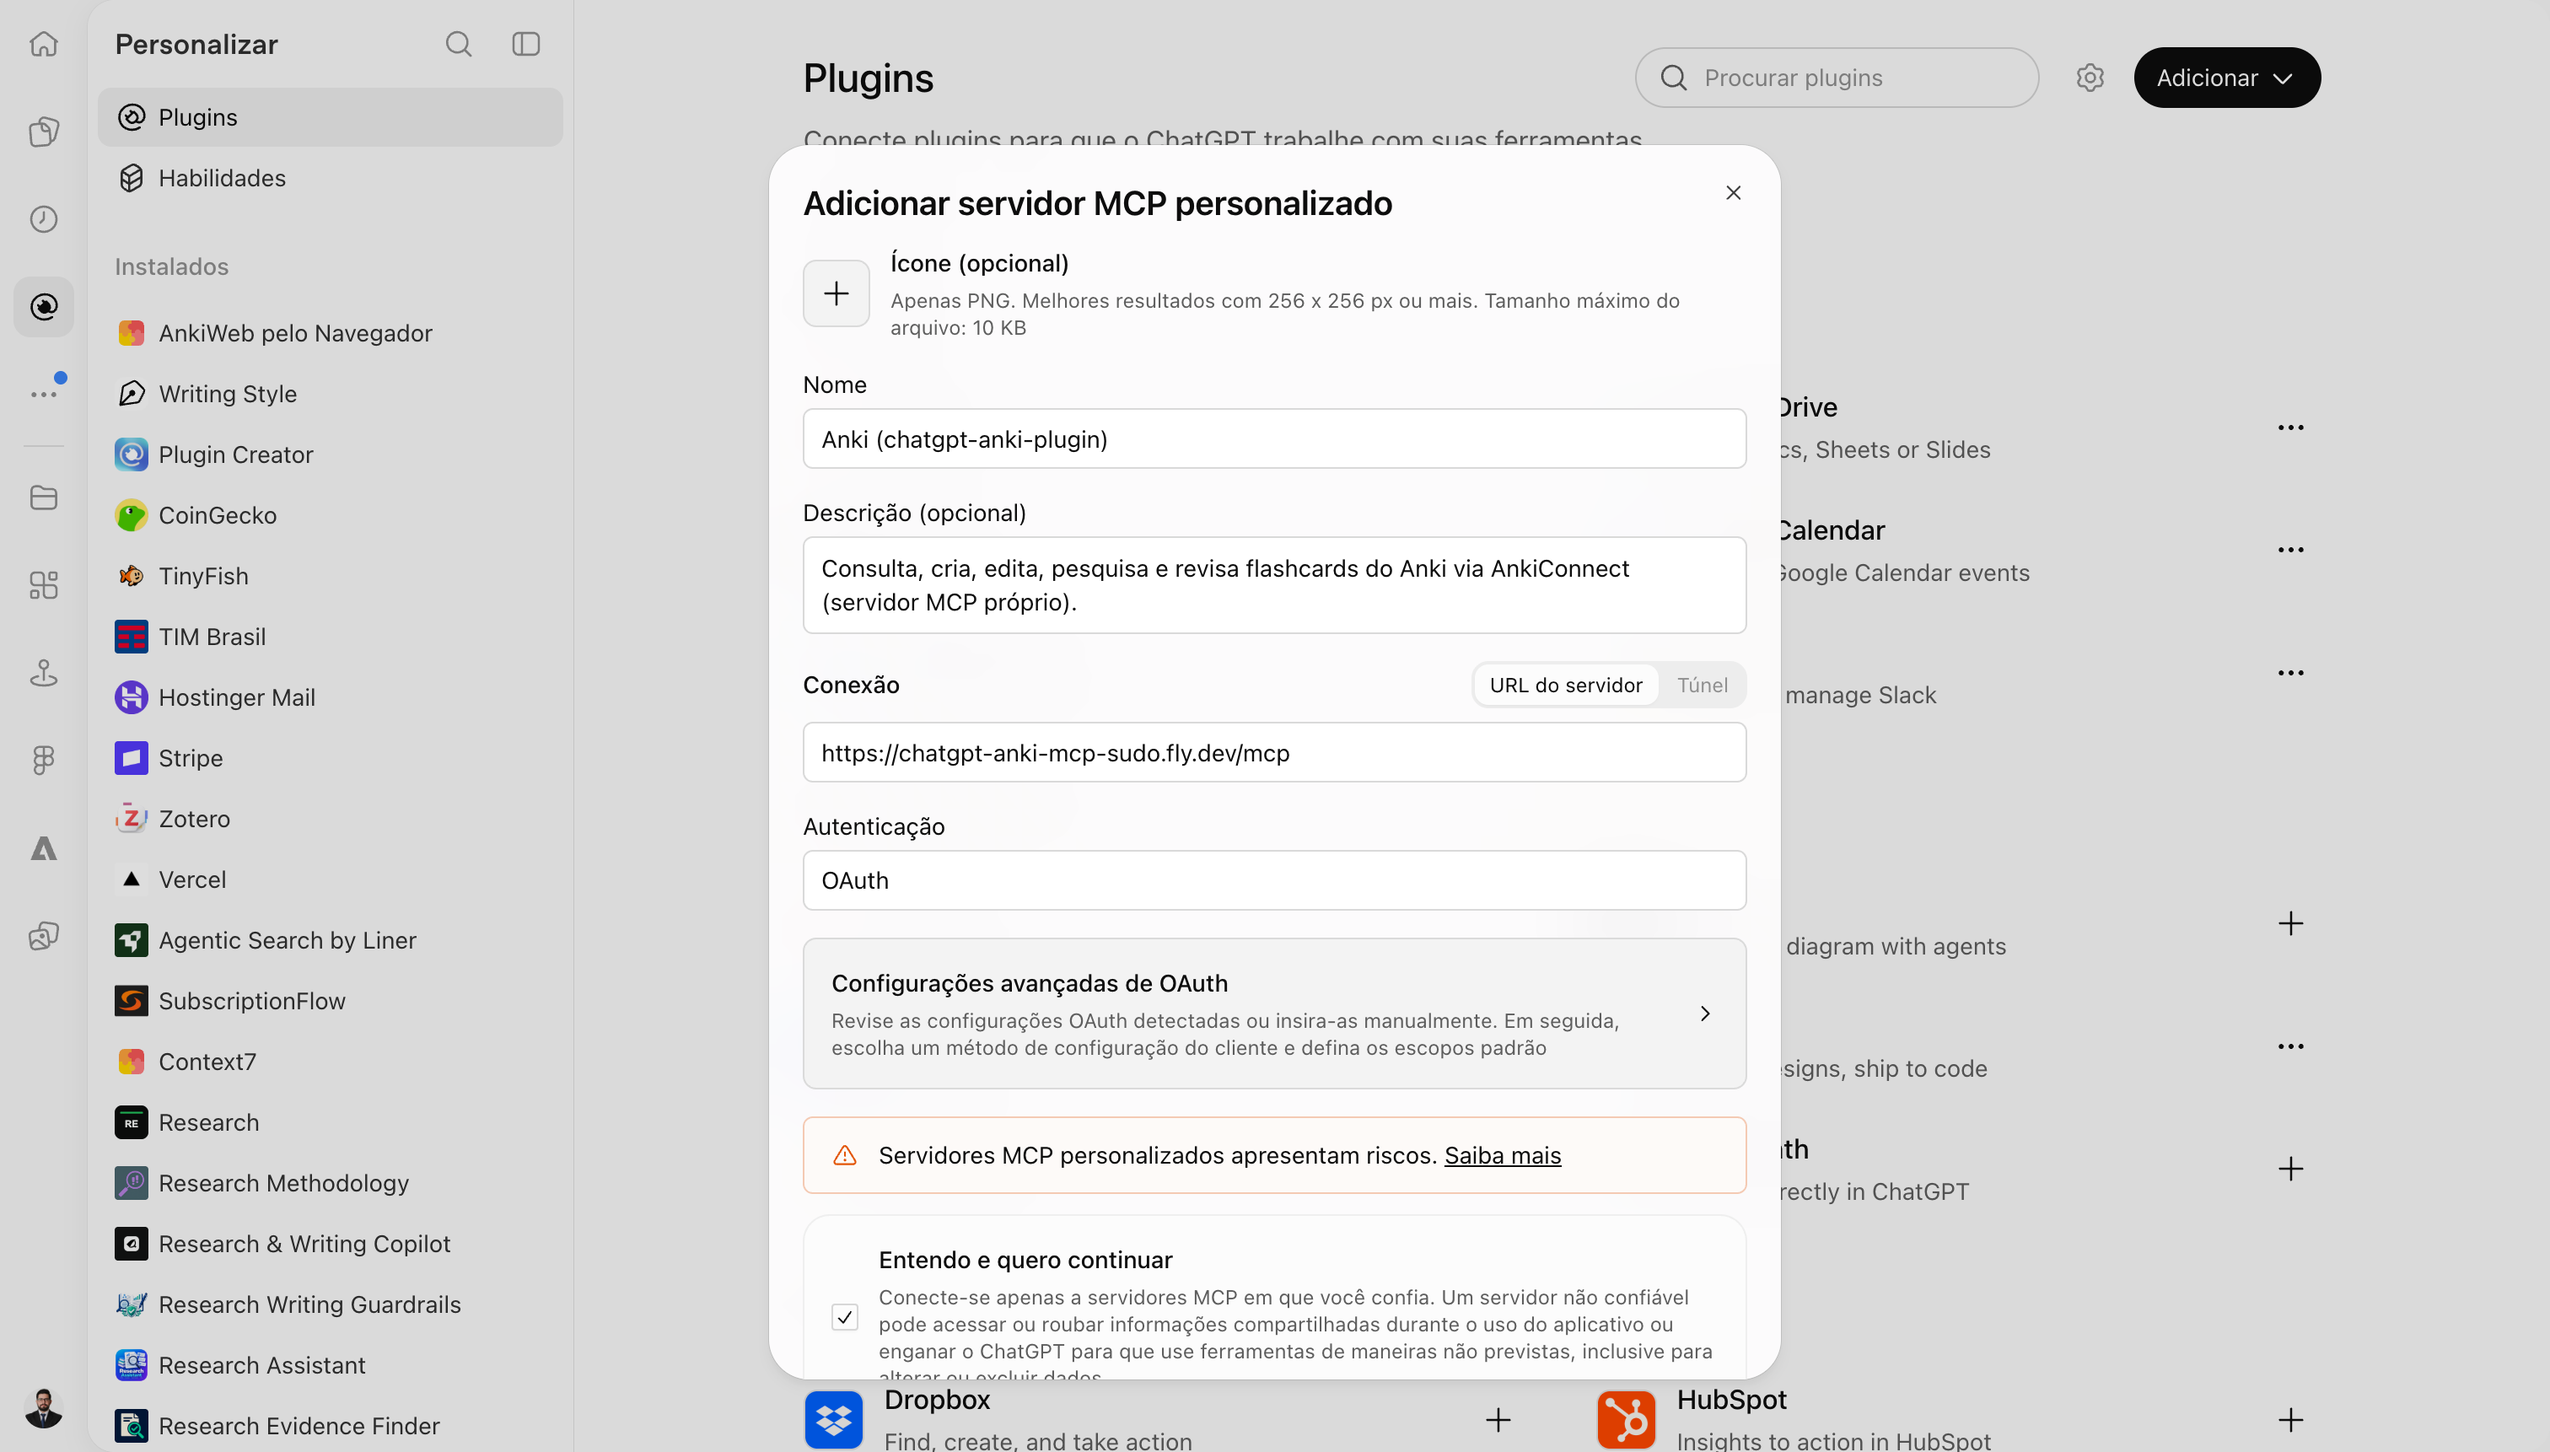
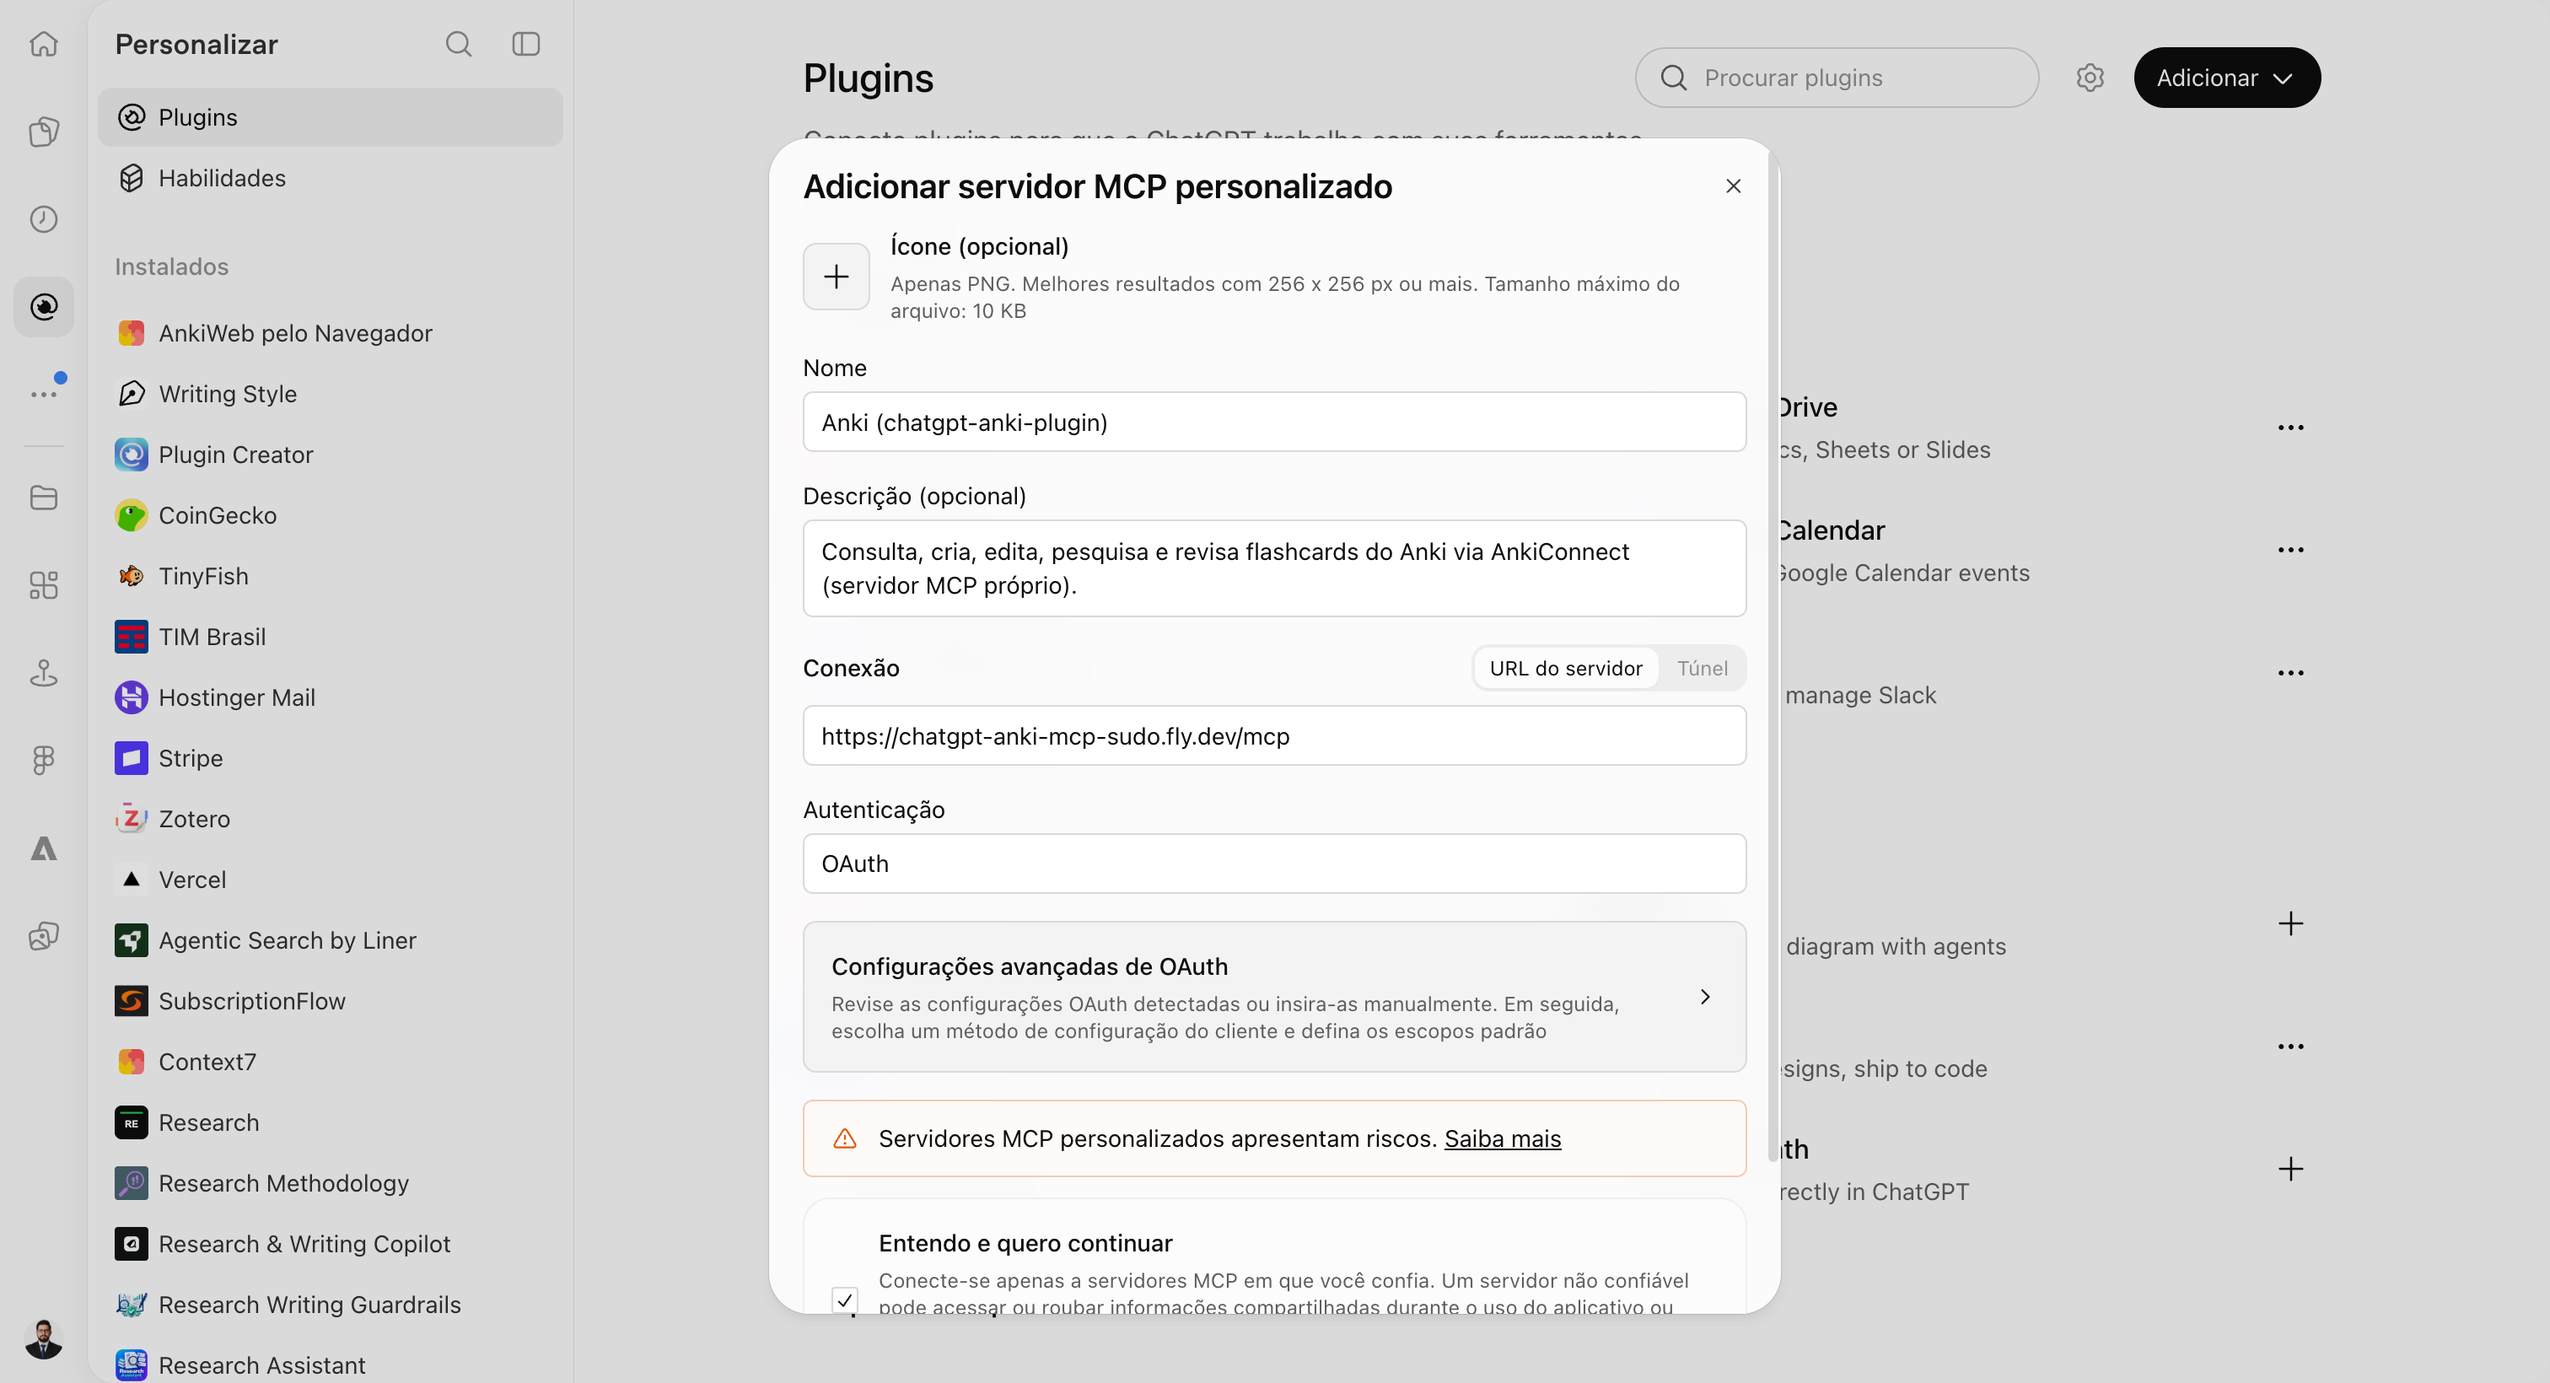
fix(oauth): stateless signed DCR client ids; suspend auto-stop to keep short-lived codes

diff --git a/src/mcp/auth/oauth.ts b/src/mcp/auth/oauth.ts
@@ -1,4 +1,4 @@
-import { createHash, randomBytes } from 'node:crypto';
+import { createHash, createHmac, randomBytes, timingSafeEqual } from 'node:crypto';
 import { TOOL_SCOPES } from '../../tools/types.js';
 
 /**
@@ -101,6 +101,12 @@ export interface OAuthServiceOptions {
   codeTtlMs?: number;
   now?: () => number;
   envClient?: { clientId: string; clientSecret?: string; redirectUris: string[] };
+  /**
+   * Chave HMAC para assinar client ids auto-contidos emitidos pelo DCR.
+   * Em produção, use o TOKEN_SECRET (o registro sobrevive a restart/cold start
+   * e a múltiplas instâncias — nada de estado em memória para clientes).
+   */
+  signingSecret?: string;
 }
 
 export class OAuthService {
@@ -108,10 +114,12 @@ export class OAuthService {
   private readonly codes = new Map<string, AuthorizationCodeRecord>();
   private readonly now: () => number;
   private readonly options: OAuthServiceOptions;
+  private readonly signingSecret: string;
 
   constructor(options: OAuthServiceOptions) {
     this.options = options;
     this.now = options.now ?? Date.now;
+    this.signingSecret = options.signingSecret ?? 'dev-client-signing-secret-0123456789abcdef';
     if (options.envClient) {
       const { clientId, clientSecret, redirectUris } = options.envClient;
       this.clients.set(clientId, {
@@ -150,7 +158,12 @@ export class OAuthService {
         );
       }
     }
-    const clientId = `mcp-${randomBytes(12).toString('hex')}`;
+    const clientId = this.signClientPayload({
+      v: 1,
+      ...(typeof input.client_name === 'string' ? { name: input.client_name } : {}),
+      redirect_uris: redirectUris,
+      iat: this.now(),
+    });
     const record: OAuthClientRecord = {
       clientId,
       ...(typeof input.client_name === 'string' ? { clientName: input.client_name } : {}),
@@ -164,7 +177,51 @@ export class OAuthService {
   }
 
   getClient(clientId: string | undefined): OAuthClientRecord | undefined {
-    return clientId ? this.clients.get(clientId) : undefined;
+    if (!clientId) return undefined;
+    const cached = this.clients.get(clientId);
+    if (cached) return cached;
+    const restored = this.parseSignedClientId(clientId);
+    if (restored) this.clients.set(clientId, restored);
+    return restored;
+  }
+
+  /** Client ids do DCR são auto-contidos e assinados: sobrevivem a restart/cold start. */
+  private signClientPayload(payload: Record<string, unknown>): string {
+    const body = Buffer.from(JSON.stringify(payload)).toString('base64url');
+    const signature = createHmac('sha256', this.signingSecret).update(body).digest('base64url');
+    return `mcp_${body}.${signature}`;
+  }
+
+  private parseSignedClientId(clientId: string): OAuthClientRecord | undefined {
+    if (!clientId.startsWith('mcp_')) return undefined;
+    const separator = clientId.indexOf('.', 4);
+    if (separator === -1) return undefined;
+    const body = clientId.slice(4, separator);
+    const signature = clientId.slice(separator + 1);
+    const expected = createHmac('sha256', this.signingSecret).update(body).digest();
+    const provided = Buffer.from(signature, 'base64url');
+    if (provided.length !== expected.length || !timingSafeEqual(provided, expected)) return undefined;
+    try {
+      const payload = JSON.parse(Buffer.from(body, 'base64url').toString('utf8')) as {
+        v?: number;
+        name?: string;
+        redirect_uris?: string[];
+        iat?: number;
+      };
+      if (payload.v !== 1) return undefined;
+      return {
+        clientId,
+        ...(typeof payload.name === 'string' ? { clientName: payload.name } : {}),
+        redirectUris: Array.isArray(payload.redirect_uris)
+          ? payload.redirect_uris.filter((uri): uri is string => typeof uri === 'string')
+          : [],
+        tokenEndpointAuthMethod: 'none',
+        createdAt: typeof payload.iat === 'number' ? payload.iat : Date.now(),
+        dynamic: true,
+      };
+    } catch {
+      return undefined;
+    }
   }
 
   validateAuthorize(params: AuthorizeParams): AuthorizeValidation {

diff --git a/tests/unit/oauth.test.ts b/tests/unit/oauth.test.ts
@@ -8,12 +8,15 @@ function challengeFor(verifier: string): string {
   return createHash('sha256').update(verifier).digest('base64url');
 }
 
+const TEST_SIGNING_SECRET = 'unit-signing-secret-0123456789abcdef';
+
 function service(overrides: Partial<ConstructorParameters<typeof OAuthService>[0]> = {}): OAuthService {
   return new OAuthService({
     allowedRedirectUris: [ALLOWED, 'http://localhost:3000/callback'],
     defaultScopes: ['anki:read', 'anki:write', 'anki:review'],
     allowDcr: true,
     now: () => 1_700_000_000_000,
+    signingSecret: TEST_SIGNING_SECRET,
     envClient: { clientId: 'chatgpt', redirectUris: [ALLOWED, 'http://localhost:3000/callback'] },
     ...overrides,
   });
@@ -199,7 +202,7 @@ describe('OAuthService dynamic client registration', () => {
   it('registers an allowlisted client', () => {
     const svc = service();
     const client = svc.registerClient({ redirect_uris: [ALLOWED], client_name: 'ChatGPT' });
-    expect(client.clientId).toMatch(/^mcp-/);
+    expect(client.clientId).toMatch(/^mcp_/);
     expect(svc.getClient(client.clientId)?.clientName).toBe('ChatGPT');
   });
 
@@ -214,6 +217,27 @@ describe('OAuthService dynamic client registration', () => {
     // Registro sem redirect_uris também é aceito (o conector pode operar com callback padrão):
     const noRedirects = svc.registerClient({});
     expect(noRedirects.redirectUris).toEqual([]);
+  });
+
+  it('signed client ids survive restarts: reconstructed without any server state', () => {
+    const first = service();
+    const client = first.registerClient({ redirect_uris: [ALLOWED], client_name: 'ChatGPT' });
+
+    // "Novo processo" (memória zerada): o client é reconstruído pela assinatura.
+    const restarted = service();
+    const restored = restarted.getClient(client.clientId);
+    expect(restored).toBeDefined();
+    expect(restored?.redirectUris).toEqual([ALLOWED]);
+    expect(restored?.clientName).toBe('ChatGPT');
+    expect(restored?.dynamic).toBe(true);
+
+    // Assinatura adulterada é rejeitada.
+    const tampered = `${client.clientId.slice(0, -4)}AAAA`;
+    expect(restarted.getClient(tampered)).toBeUndefined();
+
+    // Segredo diferente (outra instalação) rejeita o id.
+    const otherSecret = service({ signingSecret: 'another-signing-secret-0123456789ab' });
+    expect(otherSecret.getClient(client.clientId)).toBeUndefined();
   });
 
   it('dynamic clients accept ChatGPT-hosted redirects at authorize; env client stays strict', () => {

diff --git a/tests/helpers/test-app.ts b/tests/helpers/test-app.ts
@@ -50,6 +50,7 @@ export async function startTestApp(options: TestAppOptions = {}): Promise<TestAp
     allowedRedirectUris: config.auth.allowedRedirectUris,
     defaultScopes: config.auth.defaultScopes,
     allowDcr: config.auth.allowDcr,
+    signingSecret: TEST_TOKEN_SECRET,
     envClient: {
       clientId: config.auth.clientId,
       redirectUris: config.auth.allowedRedirectUris,

diff --git a/src/index.ts b/src/index.ts
@@ -35,6 +35,7 @@ async function main(): Promise<void> {
     allowedRedirectUris: config.auth.allowedRedirectUris,
     defaultScopes: config.auth.defaultScopes,
     allowDcr: config.auth.allowDcr,
+    signingSecret: config.auth.tokenSecret,
     envClient: {
       clientId: config.auth.clientId,
       ...(config.auth.clientSecret ? { clientSecret: config.auth.clientSecret } : {}),

diff --git a/tests/integration/auth.test.ts b/tests/integration/auth.test.ts
@@ -227,7 +227,7 @@ describe('MCP endpoint authentication (C7)', () => {
     });
     expect(register.status).toBe(201);
     const client = (await register.json()) as { client_id: string };
-    expect(client.client_id).toMatch(/^mcp-/);
+    expect(client.client_id).toMatch(/^mcp_/);
 
     const token = await obtainToken(app.baseUrl, {
       clientId: client.client_id,

diff --git a/docs/04-adr/ADR-0003-oauth-e-scopes.md b/docs/04-adr/ADR-0003-oauth-e-scopes.md
@@ -42,7 +42,16 @@ validação de `aud` (RFC 8707). O ChatGPT (connector) descobre o fluxo via 401 
 
 ## Consequências
 
-- Rotação de `TOKEN_SECRET` invalida todos os tokens (runbook cobre).
+- **Client ids do DCR são auto-contidos e assinados (HMAC com o `TOKEN_SECRET`)**:
+  o registro sobrevive a restart/cold start e a múltiplas instâncias — nada de
+  estado em memória para clientes (achado em produção: com `auto_stop`, o
+  client registrado se perdia e o `/oauth/authorize` respondia `Unknown
+  client_id`). Os **authorization codes** (TTL 60 s) seguem em memória;
+  `auto_stop_machines = 'suspend'` preserva-os no idle e o fluxo real dura
+  segundos (documentado no runbook).
+- Rotação de `TOKEN_SECRET` invalida todos os tokens **e os client ids
+  assinados** — o ChatGPT re-registra automaticamente no próximo fluxo
+  (runbook cobre os efeitos).
 - O consentimento mostra os escopos em pt-BR; negação redireciona
   `error=access_denied`.
 - Testes: `tests/integration/auth.test.ts` (15) cobrem o fluxo completo,
